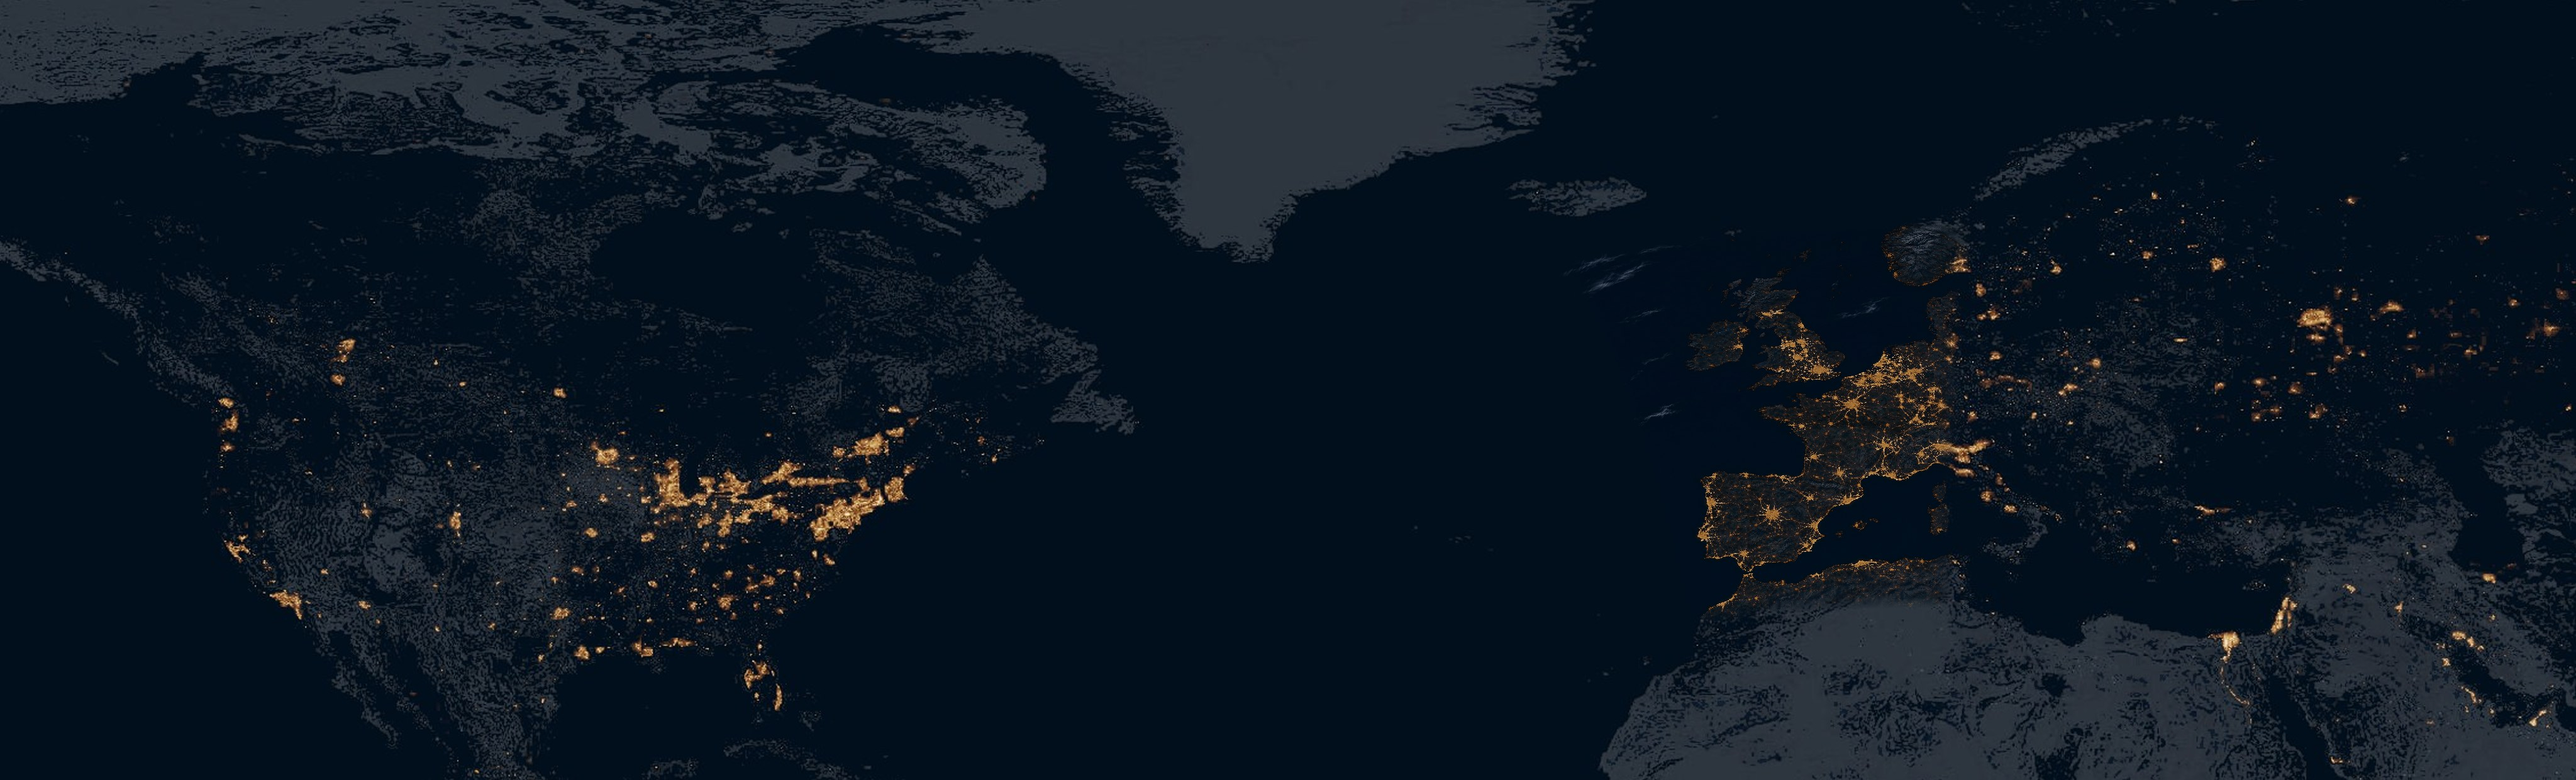
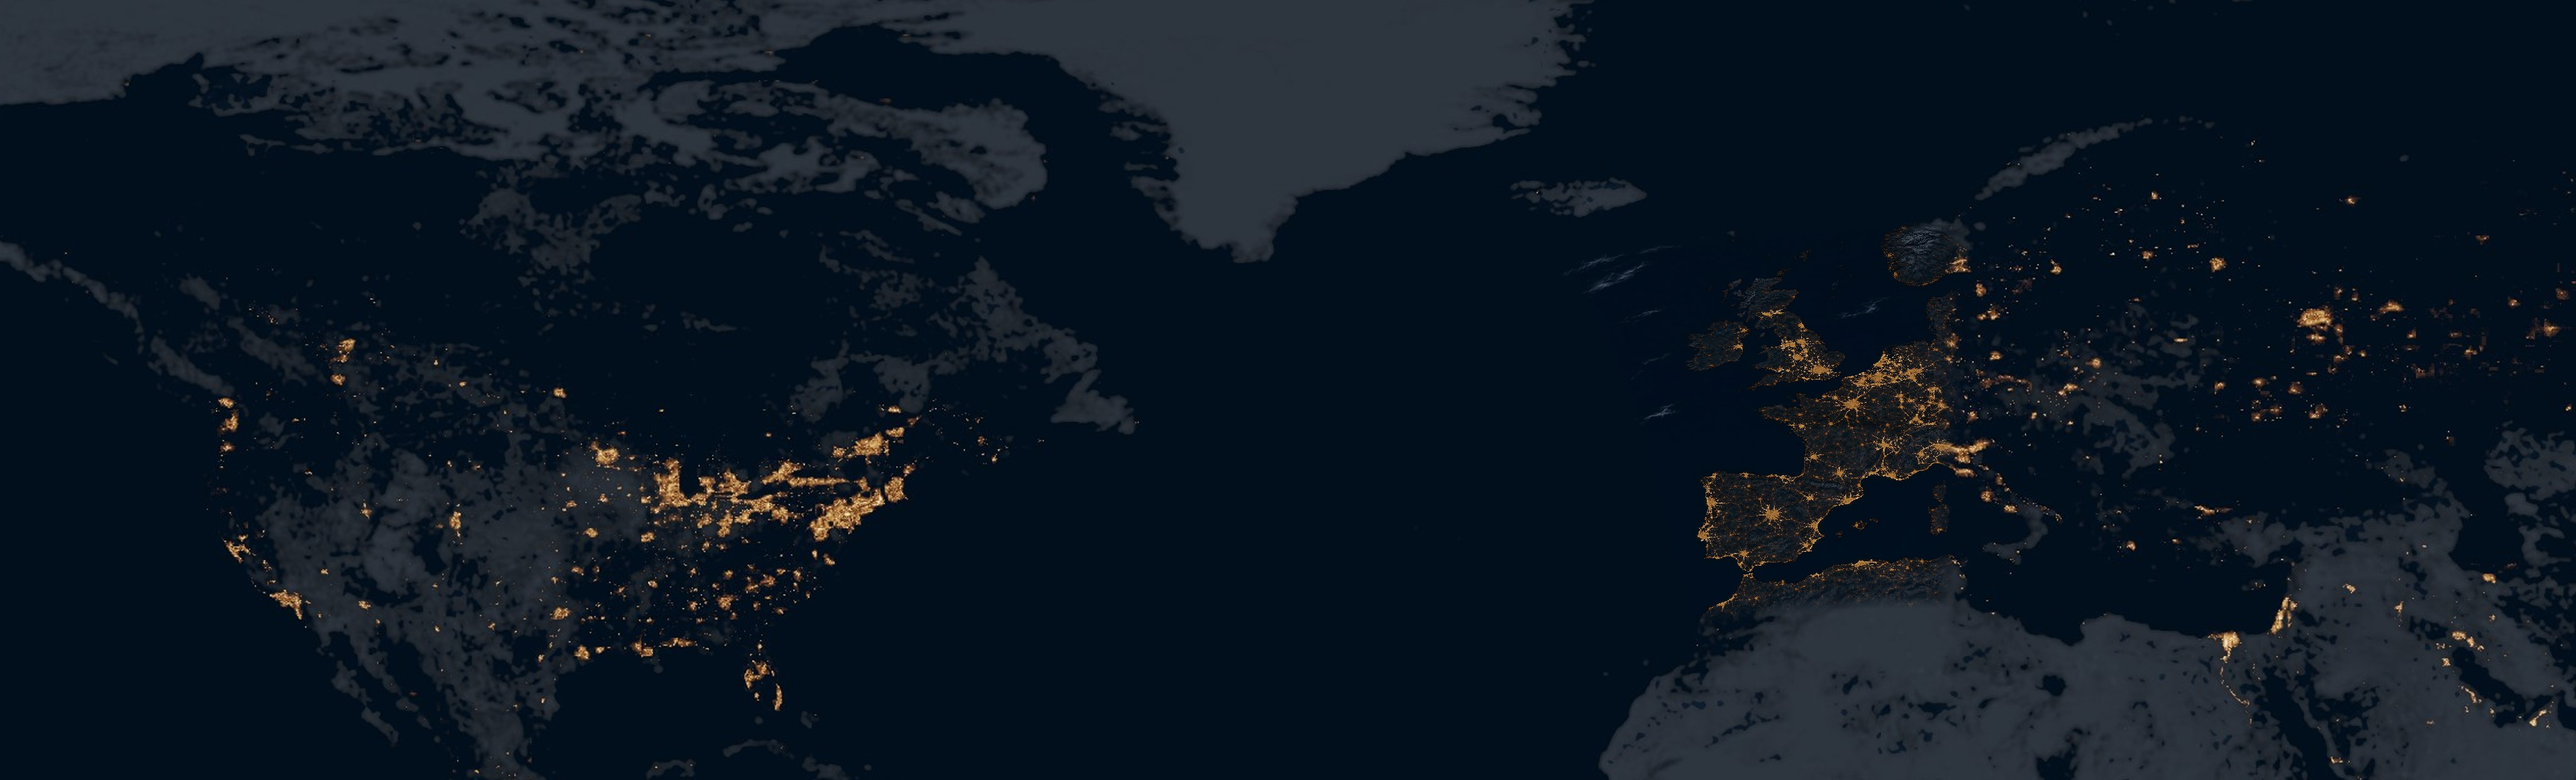
Hero Earth is a real globe you can spin
The Earth at the top is now drawn live from the satellite-style night map, with the detailed UK, France and Spain artwork, from a camera that matches the old picture. Click and drag (or swipe sideways on a phone) to spin it; it glides on after you let go. Also smooths speckle out of the world night map.

Claude-Session: https://claude.ai/code/session_01BZrB8TdtGHvyLkJGMq4KZM

Changed region(s): [[0.2812, 0.0, 0.3438, 0.0306], [0.7188, 0.9186, 0.75, 0.9492], [0.0938, 0.0612, 0.125, 0.0919]]

diff --git a/index.html b/index.html
@@ -1365,7 +1365,26 @@ class Component extends DCLogic {
       uCover: { value: new T.Vector4(1, 1, 0, 0) }, uPar: { value: new T.Vector2() }, uNudge: { value: new T.Vector3() }, uWave: { value: new T.Vector3(0.5, 0.7, 0) }, uCur: { value: new T.Vector2(0.5, 0.7) },
       uPose: { value: 0 }, uK: { value: 0 }, uTime: { value: 0 }, uWaveA: { value: 0 }, uGlow: { value: 0 },
       uC: { value: [new T.Vector4(), new T.Vector4(), new T.Vector4()] }, uCI: { value: [0, 0, 0] } };
-    const bgScene = new T.Scene(); bgScene.add(new T.Mesh(quad, new T.ShaderMaterial({ uniforms: U, vertexShader: VS, fragmentShader: "precision highp float;\nvarying vec2 vUv;\nuniform sampler2D tBg; uniform sampler2D tStars; uniform sampler2D tLights; uniform sampler2D tMask; uniform sampler2D tHeat;\nuniform vec4 uCover; uniform vec2 uPar; uniform vec3 uNudge; uniform vec3 uWave; uniform vec2 uCur;\nuniform float uPose; uniform float uK; uniform float uTime; uniform float uWaveA; uniform float uGlow;\nuniform vec4 uC[3]; uniform float uCI[3];\nconst float A = 1.7777778;\nfloat hash(vec2 p){ p = fract(p * vec2(123.34, 456.21)); p += dot(p, p + 45.32); return fract(p.x * p.y); }\nfloat noise(vec2 p){ vec2 i = floor(p), f = fract(p); f = f * f * (3.0 - 2.0 * f); return mix(mix(hash(i), hash(i + vec2(1.0, 0.0)), f.x), mix(hash(i + vec2(0.0, 1.0)), hash(i + vec2(1.0, 1.0)), f.x), f.y); }\nfloat fbm(vec2 p){ float a = 0.5, s = 0.0; for (int i = 0; i < 3; i++) { s += a * noise(p); p *= 2.03; a *= 0.5; } return s; }\nfloat limb(float x){ return 0.49568653 * x * x - 0.49439854 * x + 0.53793609; }\nvec4 tx(sampler2D t, vec2 u){ return texture2D(t, vec2(u.x, 1.0 - u.y)); }\nvec4 txb(sampler2D t, vec2 u, float b){ return texture2D(t, vec2(u.x, 1.0 - u.y), b); }\nvoid main(){\n  vec2 img = vec2(vUv.x, 1.0 - vUv.y) * uCover.xy + uCover.zw;\n  float edge = smoothstep(0.0, 0.09, img.x) * smoothstep(0.0, 0.09, 1.0 - img.x) * smoothstep(0.0, 0.09, 1.0 - img.y);\n  vec2 sUv = img + uPar * 0.004 * uK * edge * smoothstep(0.0, 0.09, img.y);\n  sUv = mix(sUv, 0.5 + (sUv - 0.5 + vec2(0.00833, 0.01852)) / 0.98, uPose);\n  vec3 st = tx(tStars, sUv).rgb;\n  float l = dot(st, vec3(0.3333));\n  float lb = dot(txb(tStars, sUv, 3.0).rgb, vec3(0.3333));\n  vec2 cell = floor(sUv * vec2(480.0, 270.0));\n  float h1 = hash(cell), h2 = hash(cell + 19.7);\n  float small = smoothstep(0.10, 0.30, l) * (1.0 - smoothstep(0.08, 0.20, lb)) * step(0.5, h2);\n  st *= 1.0 + 0.5 * sin(uTime * (1.2 + 3.5 * h1) + 6.2832 * h2) * small * uK;\n  float l0 = limb(img.x);\n  float hgt = clamp((img.y - l0) / (1.0 - l0), 0.0, 1.0);\n  vec2 q = img + uPar * 0.011 * mix(0.35, 1.0, sqrt(hgt)) * uK;\n  vec2 pa = vec2(q.x * A, q.y) - vec2(0.5 * A, 2.4);\n  float cs = cos(uNudge.z), sn = sin(uNudge.z);\n  pa = vec2(cs * pa.x - sn * pa.y, sn * pa.x + cs * pa.y);\n  q = (pa + vec2(0.5 * A, 2.4)) / vec2(A, 1.0) - uNudge.xy;\n  q = img + (q - img) * edge;\n  q = mix(q, 0.5 + (q - 0.5 + vec2(0.00833, 0.01852)) / 0.98, uPose);\n  float lq = limb(q.x);\n  float mE = smoothstep(lq - 0.045, lq, q.y);\n  vec3 sky = st;\n  vec3 e = tx(tBg, q).rgb;\n  vec4 Lt = tx(tLights, q);\n  float heat = tx(tHeat, q).r;\n  float wd = distance(vec2(q.x * A, q.y), vec2(uWave.x * A, uWave.y));\n  float ring = exp(-pow((wd - uWave.z) / 0.05, 2.0)) * uWaveA;\n  float exc = clamp(heat + ring, 0.0, 1.3);\n  vec2 c2 = floor(q * vec2(96.0, 54.0));\n  float fl = 1.0 + 0.11 * sin(uTime * (1.1 + 2.6 * hash(c2)) + 6.2832 * hash(c2 + 3.1)) + 0.05 * (noise(q * 260.0 + uTime * 0.7) - 0.5);\n  float F = mix(1.0, (0.55 + 0.95 * exc) * fl, uK);\n  e = mix(e, e * F, Lt.a);\n  vec4 Lb = txb(tLights, q, 4.0);\n  e += Lb.rgb * Lb.a * exc * 1.1 * uK * vec3(1.0, 0.82, 0.55);\n  float n = fbm(q * vec2(5.0, 9.0) + vec2(uTime / 60.0, uTime / 140.0));\n  e += vec3(0.75, 0.82, 1.0) * 0.10 * smoothstep(0.42, 0.78, n) * uK * (1.0 - Lt.a);\n  float band = exp(-pow((q.y - lq) / 0.02, 2.0));\n  e *= 1.0 + 0.10 * sin(uTime * 1.0472) * band * uK;\n  float cd = distance(vec2(q.x * A, q.y), vec2(uCur.x * A, uCur.y));\n  e += vec3(0.78, 0.57, 0.23) * 0.07 * exp(-cd * cd / 0.02) * uGlow * uK;\n  gl_FragColor = vec4(mix(sky, e, mE), 1.0);\n}", depthTest: false, depthWrite: false })));
+    // the Earth is a real globe drawn live from the satellite-style night map; dragging spins it
+    const tW = load(hi ? 'a/w_night.jpg' : 'a/w_night_s.jpg', false, false); tW.flipY = false; tW.wrapS = T.RepeatWrapping;
+    const tEt = load(hi ? 'a/eu_t.jpg' : 'a/eu_t_s.jpg', false, false); tEt.flipY = false;
+    const tEb = load(hi ? 'a/eu_b.jpg' : 'a/eu_b_s.jpg', false, false); tEb.flipY = false;
+    Object.assign(U, { tW: { value: tW }, tEt: { value: tEt }, tEb: { value: tEb }, uCp: { value: new T.Vector3() }, uCf: { value: new T.Vector3() },
+      uCr: { value: new T.Vector3() }, uCu: { value: new T.Vector3() }, uTv: { value: new T.Vector2(0.5401 * AS, 0.5401) }, uWs: { value: hi ? new T.Vector2(4096, 2048) : new T.Vector2(2048, 1024) } });
+    H.rlon = 0; H.rlat = 0; H.vlon = 0; H.vlat = 0;
+    const setGlobe = () => {
+      const DR = Math.PI / 180, la = (48.4516 + H.rlat) * DR, lo = (-4.0322 + H.rlon) * DR, hd = 3.6663 * DR, pt = 67.5045 * DR;
+      const N = [Math.cos(la) * Math.cos(lo), Math.cos(la) * Math.sin(lo), Math.sin(la)], E = [-Math.sin(lo), Math.cos(lo), 0];
+      const Nn = [N[1] * E[2] - N[2] * E[1], N[2] * E[0] - N[0] * E[2], N[0] * E[1] - N[1] * E[0]];
+      const ch = Math.cos(hd), sh = Math.sin(hd), cp = Math.cos(pt), sp = Math.sin(pt);
+      const Fw = [0, 1, 2].map((i) => ch * Nn[i] + sh * E[i]), Rt = [0, 1, 2].map((i) => ch * E[i] - sh * Nn[i]);
+      U.uCp.value.set(N[0] * 1.0474, N[1] * 1.0474, N[2] * 1.0474);
+      U.uCf.value.set(...[0, 1, 2].map((i) => -cp * N[i] + sp * Fw[i]));
+      U.uCr.value.set(...Rt);
+      U.uCu.value.set(...[0, 1, 2].map((i) => cp * Fw[i] + sp * N[i]));
+    };
+    setGlobe();
+    const bgScene = new T.Scene(); bgScene.add(new T.Mesh(quad, new T.ShaderMaterial({ uniforms: U, vertexShader: VS, fragmentShader: "precision highp float;\nvarying vec2 vUv;\nuniform sampler2D tBg; uniform sampler2D tStars; uniform sampler2D tLights; uniform sampler2D tMask; uniform sampler2D tHeat;\nuniform vec4 uCover; uniform vec2 uPar; uniform vec3 uNudge; uniform vec3 uWave; uniform vec2 uCur;\nuniform float uPose; uniform float uK; uniform float uTime; uniform float uWaveA; uniform float uGlow;\nuniform vec4 uC[3]; uniform float uCI[3];\nuniform sampler2D tW; uniform sampler2D tEt; uniform sampler2D tEb; uniform vec3 uCp; uniform vec3 uCf; uniform vec3 uCr; uniform vec3 uCu; uniform vec2 uTv;\nconst vec3 EC = vec3(0.8111801, 0.1140039, 0.5735764); const vec3 EE = vec3(-0.1391731, 0.9902681, 0.0); const vec3 EN = vec3(-0.5679944, -0.0798264, 0.8191520);\nuniform vec2 uWs;\nvec3 bspl(sampler2D t, vec2 uv, vec2 sz){\n  vec2 st = uv * sz - 0.5, i = floor(st), f = st - i, f2 = f * f, f3 = f2 * f;\n  vec2 w0 = (1.0 - 3.0 * f + 3.0 * f2 - f3) / 6.0, w1 = (4.0 - 6.0 * f2 + 3.0 * f3) / 6.0, w2 = (1.0 + 3.0 * f + 3.0 * f2 - 3.0 * f3) / 6.0, w3 = f3 / 6.0;\n  vec2 g0 = w0 + w1, g1 = w2 + w3, h0 = (i - 0.5 + w1 / g0) / sz, h1 = (i + 1.5 + w3 / g1) / sz;\n  return g0.y * (g0.x * texture2D(t, vec2(h0.x, h0.y)).rgb + g1.x * texture2D(t, vec2(h1.x, h0.y)).rgb)\n       + g1.y * (g0.x * texture2D(t, vec2(h0.x, h1.y)).rgb + g1.x * texture2D(t, vec2(h1.x, h1.y)).rgb);\n}\nvec3 earthAt(vec3 p, float bias){\n  float u1 = atan(p.y, p.x) / 6.2831853 + 0.5; float u2 = fract(u1 + 0.5) - 0.5;\n  float u = fwidth(u2) < fwidth(u1) * 0.5 ? u2 : u1;   // only switch at the date line, where u1 jumps\n  float v = 0.5 - asin(clamp(p.z, -1.0, 1.0)) / 3.1415927;\n  vec3 c = texture2D(tW, vec2(u, v), bias).rgb;\n  float qe = max(dot(p, EC), 0.2);\n  float eu = dot(p, EE) / qe, ev = dot(p, EN) / qe;\n  float es = (eu + 0.28125) / 0.3125, row = (0.53125 - ev) / 0.5625 * 5184.0;\n  vec3 a1 = texture2D(tEt, vec2(es, row / 2608.0), bias).rgb, a2 = texture2D(tEb, vec2(es, (row - 2576.0) / 2608.0), bias).rgb;\n  vec3 a = row < 2592.0 ? a1 : a2;\n  float m = smoothstep(-0.28125, -0.265, eu) * (1.0 - smoothstep(0.015, 0.03125, eu)) * smoothstep(-0.03125, -0.015, ev) * (1.0 - smoothstep(0.515, 0.53125, ev)) * step(0.2, dot(p, EC));\n  return mix(c, a, m);\n}\nfloat globeHit(vec2 img, out vec3 P){\n  vec3 d = normalize(uCf + (img.x - 0.5) * 2.0 * uTv.x * uCr + (0.5 - img.y) * 2.0 * uTv.y * uCu);\n  float b = dot(uCp, d), disc = b * b - dot(uCp, uCp) + 1.0;\n  P = normalize(uCp + (-b - sqrt(max(disc, 0.0))) * d);\n  return step(b, 0.0) * step(0.0, disc);\n}\nconst float A = 1.7777778;\nfloat hash(vec2 p){ p = fract(p * vec2(123.34, 456.21)); p += dot(p, p + 45.32); return fract(p.x * p.y); }\nfloat noise(vec2 p){ vec2 i = floor(p), f = fract(p); f = f * f * (3.0 - 2.0 * f); return mix(mix(hash(i), hash(i + vec2(1.0, 0.0)), f.x), mix(hash(i + vec2(0.0, 1.0)), hash(i + vec2(1.0, 1.0)), f.x), f.y); }\nfloat fbm(vec2 p){ float a = 0.5, s = 0.0; for (int i = 0; i < 3; i++) { s += a * noise(p); p *= 2.03; a *= 0.5; } return s; }\nfloat limb(float x){ return 0.49568653 * x * x - 0.49439854 * x + 0.53793609; }\nvec4 tx(sampler2D t, vec2 u){ return texture2D(t, vec2(u.x, 1.0 - u.y)); }\nvec4 txb(sampler2D t, vec2 u, float b){ return texture2D(t, vec2(u.x, 1.0 - u.y), b); }\nvoid main(){\n  vec2 img = vec2(vUv.x, 1.0 - vUv.y) * uCover.xy + uCover.zw;\n  float edge = smoothstep(0.0, 0.09, img.x) * smoothstep(0.0, 0.09, 1.0 - img.x) * smoothstep(0.0, 0.09, 1.0 - img.y);\n  vec2 sUv = img + uPar * 0.004 * uK * edge * smoothstep(0.0, 0.09, img.y);\n  sUv = mix(sUv, 0.5 + (sUv - 0.5 + vec2(0.00833, 0.01852)) / 0.98, uPose);\n  vec3 st = tx(tStars, sUv).rgb;\n  float l = dot(st, vec3(0.3333));\n  float lb = dot(txb(tStars, sUv, 3.0).rgb, vec3(0.3333));\n  vec2 cell = floor(sUv * vec2(480.0, 270.0));\n  float h1 = hash(cell), h2 = hash(cell + 19.7);\n  float small = smoothstep(0.10, 0.30, l) * (1.0 - smoothstep(0.08, 0.20, lb)) * step(0.5, h2);\n  st *= 1.0 + 0.5 * sin(uTime * (1.2 + 3.5 * h1) + 6.2832 * h2) * small * uK;\n  float l0 = limb(img.x);\n  float hgt = clamp((img.y - l0) / (1.0 - l0), 0.0, 1.0);\n  vec2 q = img + uPar * 0.011 * mix(0.35, 1.0, sqrt(hgt)) * uK;\n  vec2 pa = vec2(q.x * A, q.y) - vec2(0.5 * A, 2.4);\n  float cs = cos(uNudge.z), sn = sin(uNudge.z);\n  pa = vec2(cs * pa.x - sn * pa.y, sn * pa.x + cs * pa.y);\n  q = (pa + vec2(0.5 * A, 2.4)) / vec2(A, 1.0) - uNudge.xy;\n  q = img + (q - img) * edge;\n  q = mix(q, 0.5 + (q - 0.5 + vec2(0.00833, 0.01852)) / 0.98, uPose);\n  float lq = limb(q.x);\n  float mE = smoothstep(lq - 0.045, lq, q.y);\n  vec3 sky = st;\n  vec3 gP; float gh = globeHit(q, gP);\n  float gm = gh * smoothstep(lq + 0.002, lq + 0.02, q.y);\n  vec3 gc = earthAt(gP, 0.0);\n  gc += vec3(0.05, 0.14, 0.42) * exp(-max(q.y - lq, 0.0) / 0.035);\n  vec3 e = mix(tx(tBg, q).rgb, gc, gm);\n  vec4 Lt = mix(tx(tLights, q), vec4(gc, clamp((gc.r - 0.9 * gc.b) * 2.2, 0.0, 1.0)), gm);\n  float heat = tx(tHeat, q).r;\n  float wd = distance(vec2(q.x * A, q.y), vec2(uWave.x * A, uWave.y));\n  float ring = exp(-pow((wd - uWave.z) / 0.05, 2.0)) * uWaveA;\n  float exc = clamp(heat + ring, 0.0, 1.3);\n  vec2 c2 = floor(q * vec2(96.0, 54.0));\n  float fl = 1.0 + 0.11 * sin(uTime * (1.1 + 2.6 * hash(c2)) + 6.2832 * hash(c2 + 3.1)) + 0.05 * (noise(q * 260.0 + uTime * 0.7) - 0.5);\n  float F = mix(1.0, (0.55 + 0.95 * exc) * fl, uK);\n  e = mix(e, e * F, Lt.a);\n  vec3 gb = earthAt(gP, 4.0);\n  vec4 Lb = mix(txb(tLights, q, 4.0), vec4(gb, clamp((gb.r - 0.9 * gb.b) * 2.2, 0.0, 1.0)), gm);\n  e += Lb.rgb * Lb.a * exc * 1.1 * uK * vec3(1.0, 0.82, 0.55);\n  float n = fbm(q * vec2(5.0, 9.0) + vec2(uTime / 60.0, uTime / 140.0));\n  e += vec3(0.75, 0.82, 1.0) * 0.10 * smoothstep(0.42, 0.78, n) * uK * (1.0 - Lt.a);\n  float band = exp(-pow((q.y - lq) / 0.02, 2.0));\n  e *= 1.0 + 0.10 * sin(uTime * 1.0472) * band * uK;\n  float cd = distance(vec2(q.x * A, q.y), vec2(uCur.x * A, uCur.y));\n  e += vec3(0.78, 0.57, 0.23) * 0.07 * exp(-cd * cd / 0.02) * uGlow * uK;\n  gl_FragColor = vec4(mix(sky, e, mE), 1.0);\n}", depthTest: false, depthWrite: false })));
     const scene = new T.Scene(), cam = new T.PerspectiveCamera(20, 1, 200, 20000);
     cam.position.set(0, 0, D);
     try {
@@ -1458,6 +1477,14 @@ class Component extends DCLogic {
     H.move = (e) => {
       const dn = H.down;
       if (dn) dn.moved = Math.max(dn.moved, Math.hypot(e.clientX - dn.x, e.clientY - dn.y));
+      if (dn && dn.zone === 'earth' && dn.moved > 6 && this.state.phase === 'idle') {
+        const now = performance.now(), lx = dn.lx == null ? dn.x : dn.lx, ly = dn.ly == null ? dn.y : dn.ly;
+        const kd = 0.05 * 1400 / Math.max(600, el.clientWidth), dlon = -(e.clientX - lx) * kd, dlat = e.pointerType === 'mouse' ? (e.clientY - ly) * kd * 0.6 : 0;
+        const dts = Math.max(8, now - (dn.lt || now - 16)) / 1000;
+        dn.lx = e.clientX; dn.ly = e.clientY; dn.lt = now;
+        H.rlon += dlon; H.rlat = Math.max(-25, Math.min(25, H.rlat + dlat));
+        H.vlon = H.vlon * 0.4 + 0.6 * dlon / dts; H.vlat = H.vlat * 0.4 + 0.6 * dlat / dts; H.drag = true;
+      }
       if (e.pointerType !== 'mouse' || this.state.phase !== 'idle') return;
       const p = H.locate(e);
       H.mx = p.nx; H.my = p.ny; H.cu = p.u; H.cv2 = p.v; H.gt = 1;
@@ -1465,7 +1492,7 @@ class Component extends DCLogic {
       H.hov = Math.abs(px) <= 1 && Math.abs(py) <= 1 && !dn;
       H.px = Math.max(-1, Math.min(1, px)); H.py = Math.max(-1, Math.min(1, py));
       if (dn && dn.moved > 6) {
-        if (dn.zone === 'earth') { H.exT = Math.tanh((e.clientX - dn.x) / 380); H.eyT = Math.tanh((e.clientY - dn.y) / 380); }
+        if (dn.zone === 'earth') { /* the globe spins: see above */ }
         else if (!dn.comet) { dn.comet = addShot({ kind: 1, x: p.u * AS, y: p.v, vx: 0, vy: 0, I: 0, I0: 1, t: 0, path: [], pts: [], w: 26 }); }
         if (dn.comet) { dn.comet.cx = p.u * AS; dn.comet.cy = p.v; }
       }
@@ -1488,6 +1515,7 @@ class Component extends DCLogic {
     };
     H.pup = () => {
       const d = H.down;
+      if (d && (!d.lt || performance.now() - d.lt > 90)) { H.vlon = 0; H.vlat = 0; }   // held still before letting go: no fling
       H.down = null; H.drag = false; H.exT = 0; H.eyT = 0; el.classList.remove('is-grab');
       if (!d || this.state.phase !== 'idle') return;
       if (d.comet) { H.fling(d.comet); return; }
@@ -1535,6 +1563,11 @@ class Component extends DCLogic {
           H.evy += (-120 * H.ey - 12 * H.evy) * h; H.ey += H.evy * h;
         }
       }
+      if (!H.drag) {
+        const dk = Math.exp(-dt / 0.9);
+        H.rlon += H.vlon * dt; H.rlat = Math.max(-25, Math.min(25, H.rlat + H.vlat * dt)); H.vlon *= dk; H.vlat *= dk;
+      }
+      setGlobe();
       const drx = Math.sin(tm * 0.23) * 0.12, dry = Math.cos(tm * 0.17) * 0.1;
       const parx = H.sx + drx, pary = H.sy + dry;
       U.uPar.value.set(parx, pary);
